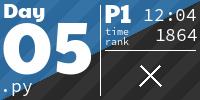
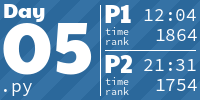
Solve 2024 day 06

diff --git a/2024/06.py b/2024/06.py
@@ -1,0 +1,114 @@
+import sys
+print(chr(27)+'[2j')
+print('\033c')
+from time import sleep
+f = open('06.input', 'r')
+#f = open('06.test', 'r')
+lines = [x.strip() for x in f.readlines()]
+RED = "\033[31m"
+BLUE = "\033[34m"
+RESET = "\033[0m"
+LIGHT_BLUE_BG = "\033[104m"
+
+DIRS = [
+        (0, -1),
+        (1, 0),
+        (0, 1),
+        (-1, 0),
+]
+dir_char = {
+        '^': 0,
+        '>': 1,
+        'v': 2,
+        '<': 3,
+}
+char_dir = ['^', '>', 'v', '<']
+
+grid = {}
+pos = None
+delta = 0
+for y, row in enumerate(lines):
+    for x, col in enumerate(row):
+        if col != '.' and col != '#':
+            pos = (x,y)
+            grid[(x,y)] = '.'
+            delta = dir_char[col]
+        else: 
+            grid[(x,y)] = col
+
+def print_map(grid, pos, delta, visited):
+    for y, row in enumerate(lines):
+        line = ''
+        for x in range(len(row)):
+            if (x,y) == pos:
+                line += LIGHT_BLUE_BG + char_dir[delta] + RESET
+            elif (x,y) in visited:
+                line += RED + 'X'  + RESET
+            else: 
+                line += grid[(x,y)]
+        print(line)
+
+
+def solve(grid, pos: tuple[int,int], delta: int):
+
+    visited = set()
+    visited.add(pos)
+    seen = set()
+    is_looping = False
+    while True:
+        x,y = pos
+        dx,dy = DIRS[delta]
+        new_pos = (x+dx, y+dy)
+        if (new_pos, delta) in seen:
+            is_looping = True
+            break
+        seen.add((new_pos, delta))
+
+        #if len(visited) % 30 == 0:
+        #    sleep(0.1)
+        #    print_map(grid,pos,delta,visited)
+
+        if new_pos not in grid:
+            break
+        g = grid[new_pos]
+
+        if g == '#':
+            delta = (delta + 1) % 4
+            continue
+        pos = new_pos
+        visited.add(new_pos)
+
+    # print_map(grid,pos,delta,visited)
+    return is_looping, visited
+
+if delta is not None and pos is not None:
+    print_map(grid, pos, delta, set())
+    _, visited = solve(grid, pos,delta)
+    print('Solution part 1:', len(visited))
+
+    loopable = 0
+    total = len(visited)
+
+    for i, (x,y) in enumerate(visited):
+        if grid[(x,y)] == '#':
+            continue
+        if (x,y) == pos:
+            continue
+
+        new_grid = grid.copy()
+        new_grid[(x,y)] = '#'
+        is_looping, result = solve(new_grid, pos,delta)
+        if is_looping:
+            loopable += 1
+
+        if i % 100 == 0 or i == total - 1:
+            progress = (i + 1) / total
+            bar_length = 40  # Length of the progress bar
+            filled_length = int(bar_length * progress)
+            bar = '=' * filled_length + '-' * (bar_length - filled_length)
+            sys.stdout.write(f'\rProgress: [{bar}] {progress:.1%} (Checked {i+1}/{total})')
+            sys.stdout.flush()
+
+    sys.stdout.write(f'\rSolution part 2: {loopable}' + ' ' * 60)
+    sys.stdout.flush()
+    print()

diff --git a/README.md b/README.md
@@ -2,7 +2,7 @@
 
 <!-- AOC TILES BEGIN -->
 <h1 align="center">
-  2024 - 9 ⭐
+  2024 - 12 ⭐
 </h1>
 <a href="2024/01.ex">
   <img src=".aoc_tiles/tiles/2024/01.png" width="161px">
@@ -18,6 +18,9 @@
 </a>
 <a href="2024/05.py">
   <img src=".aoc_tiles/tiles/2024/05.png" width="161px">
+</a>
+<a href="2024/06.py">
+  <img src=".aoc_tiles/tiles/2024/06.png" width="161px">
 </a>
 <h1 align="center">
   2023 - 50 ⭐
